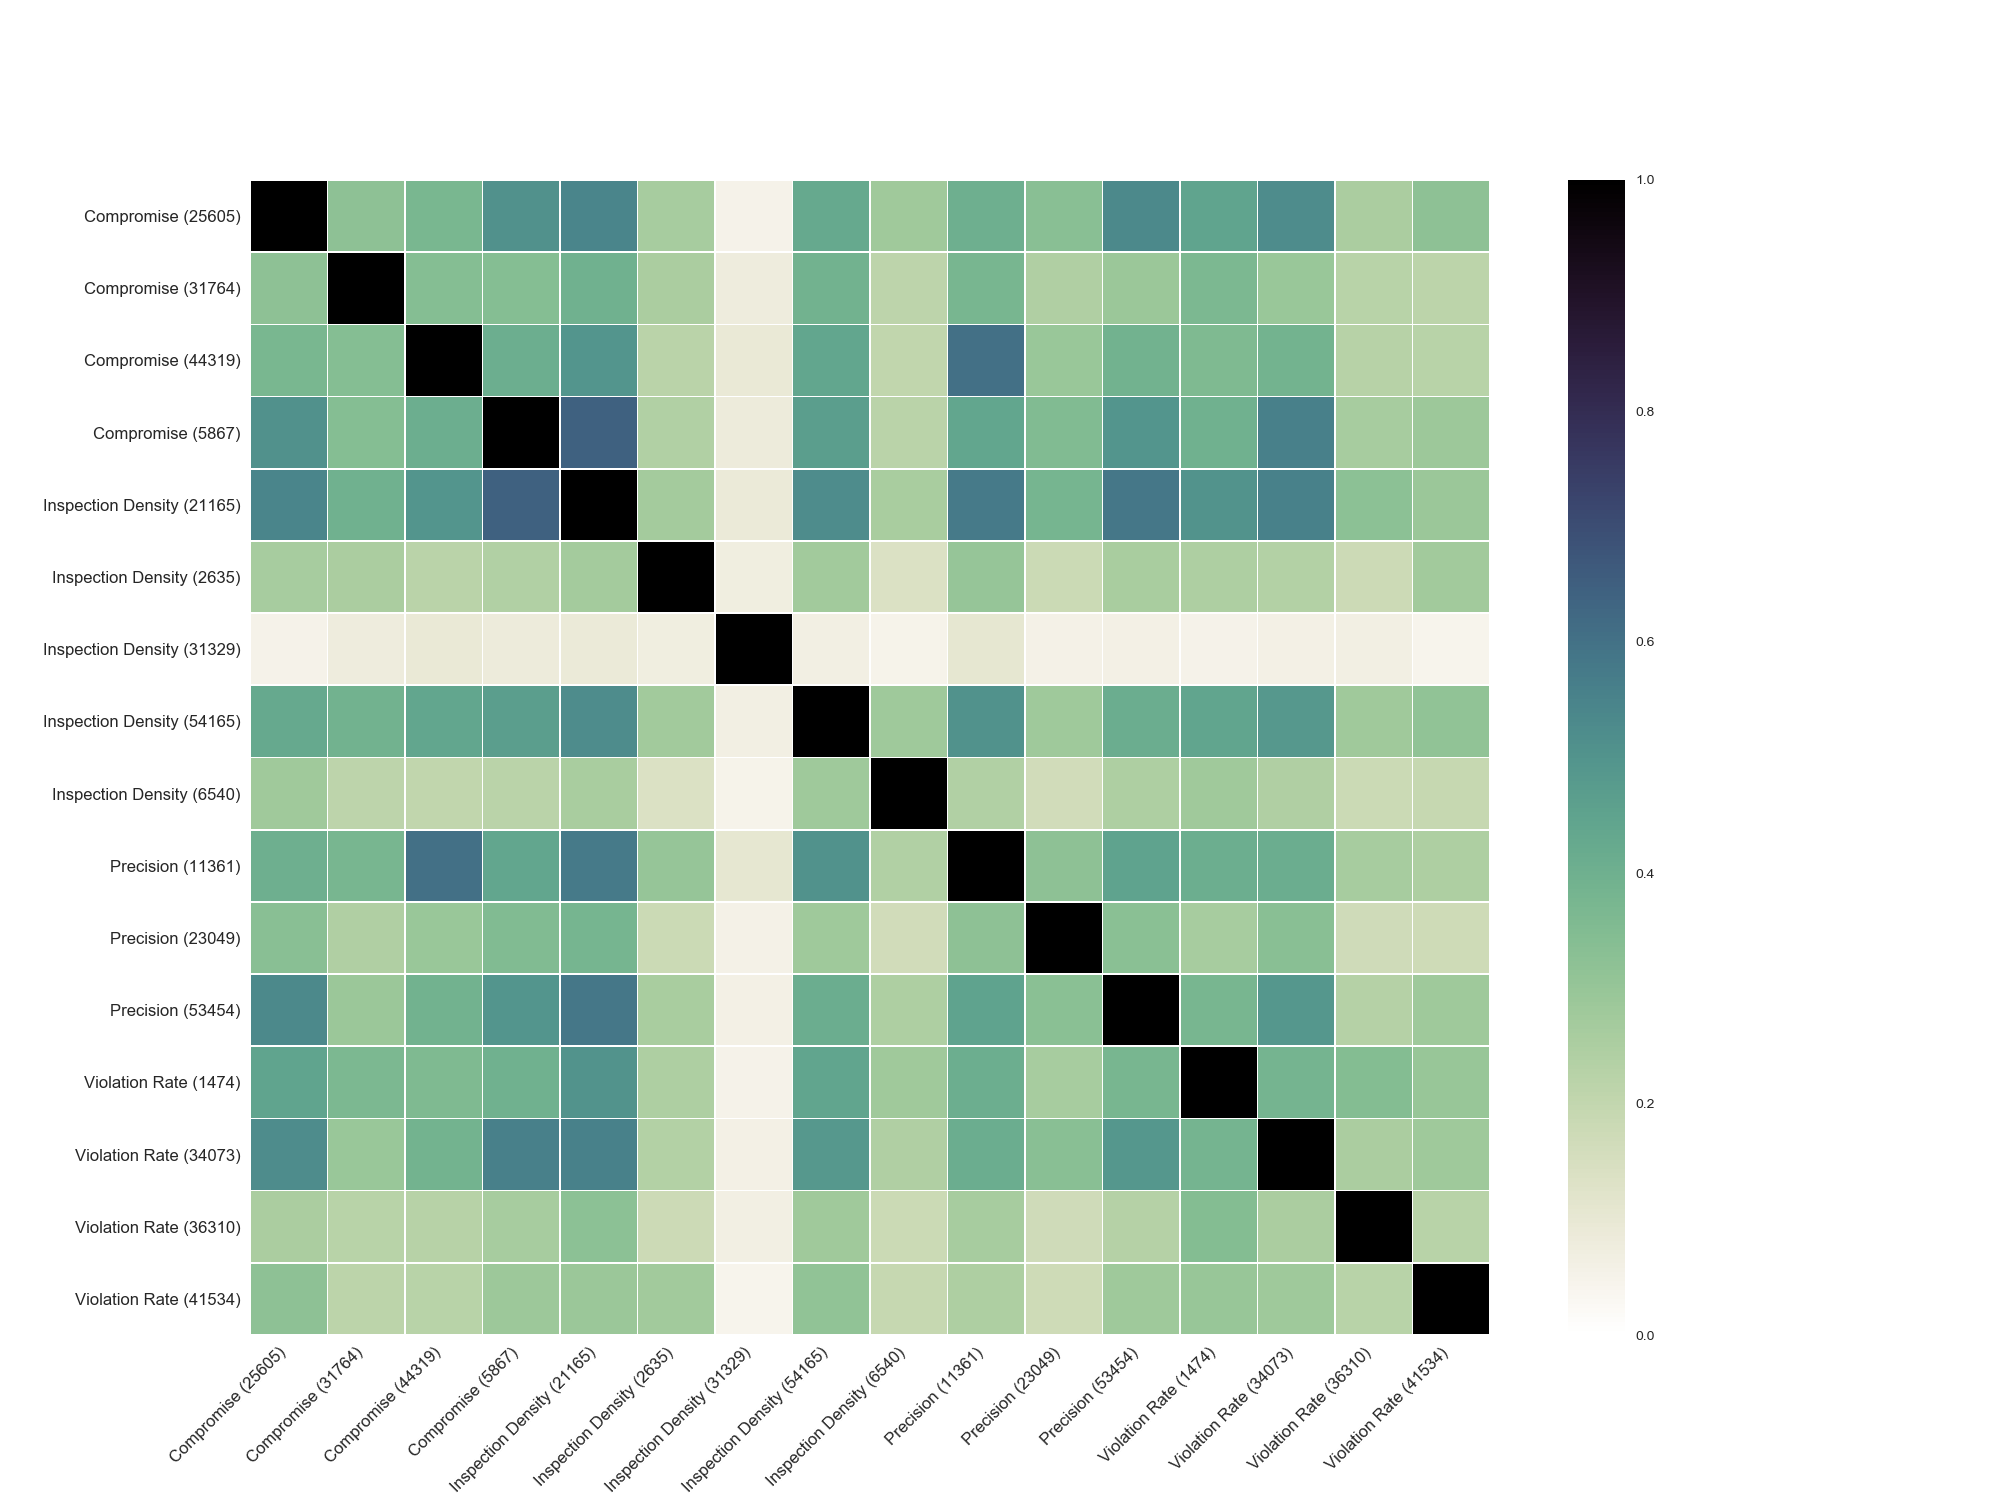
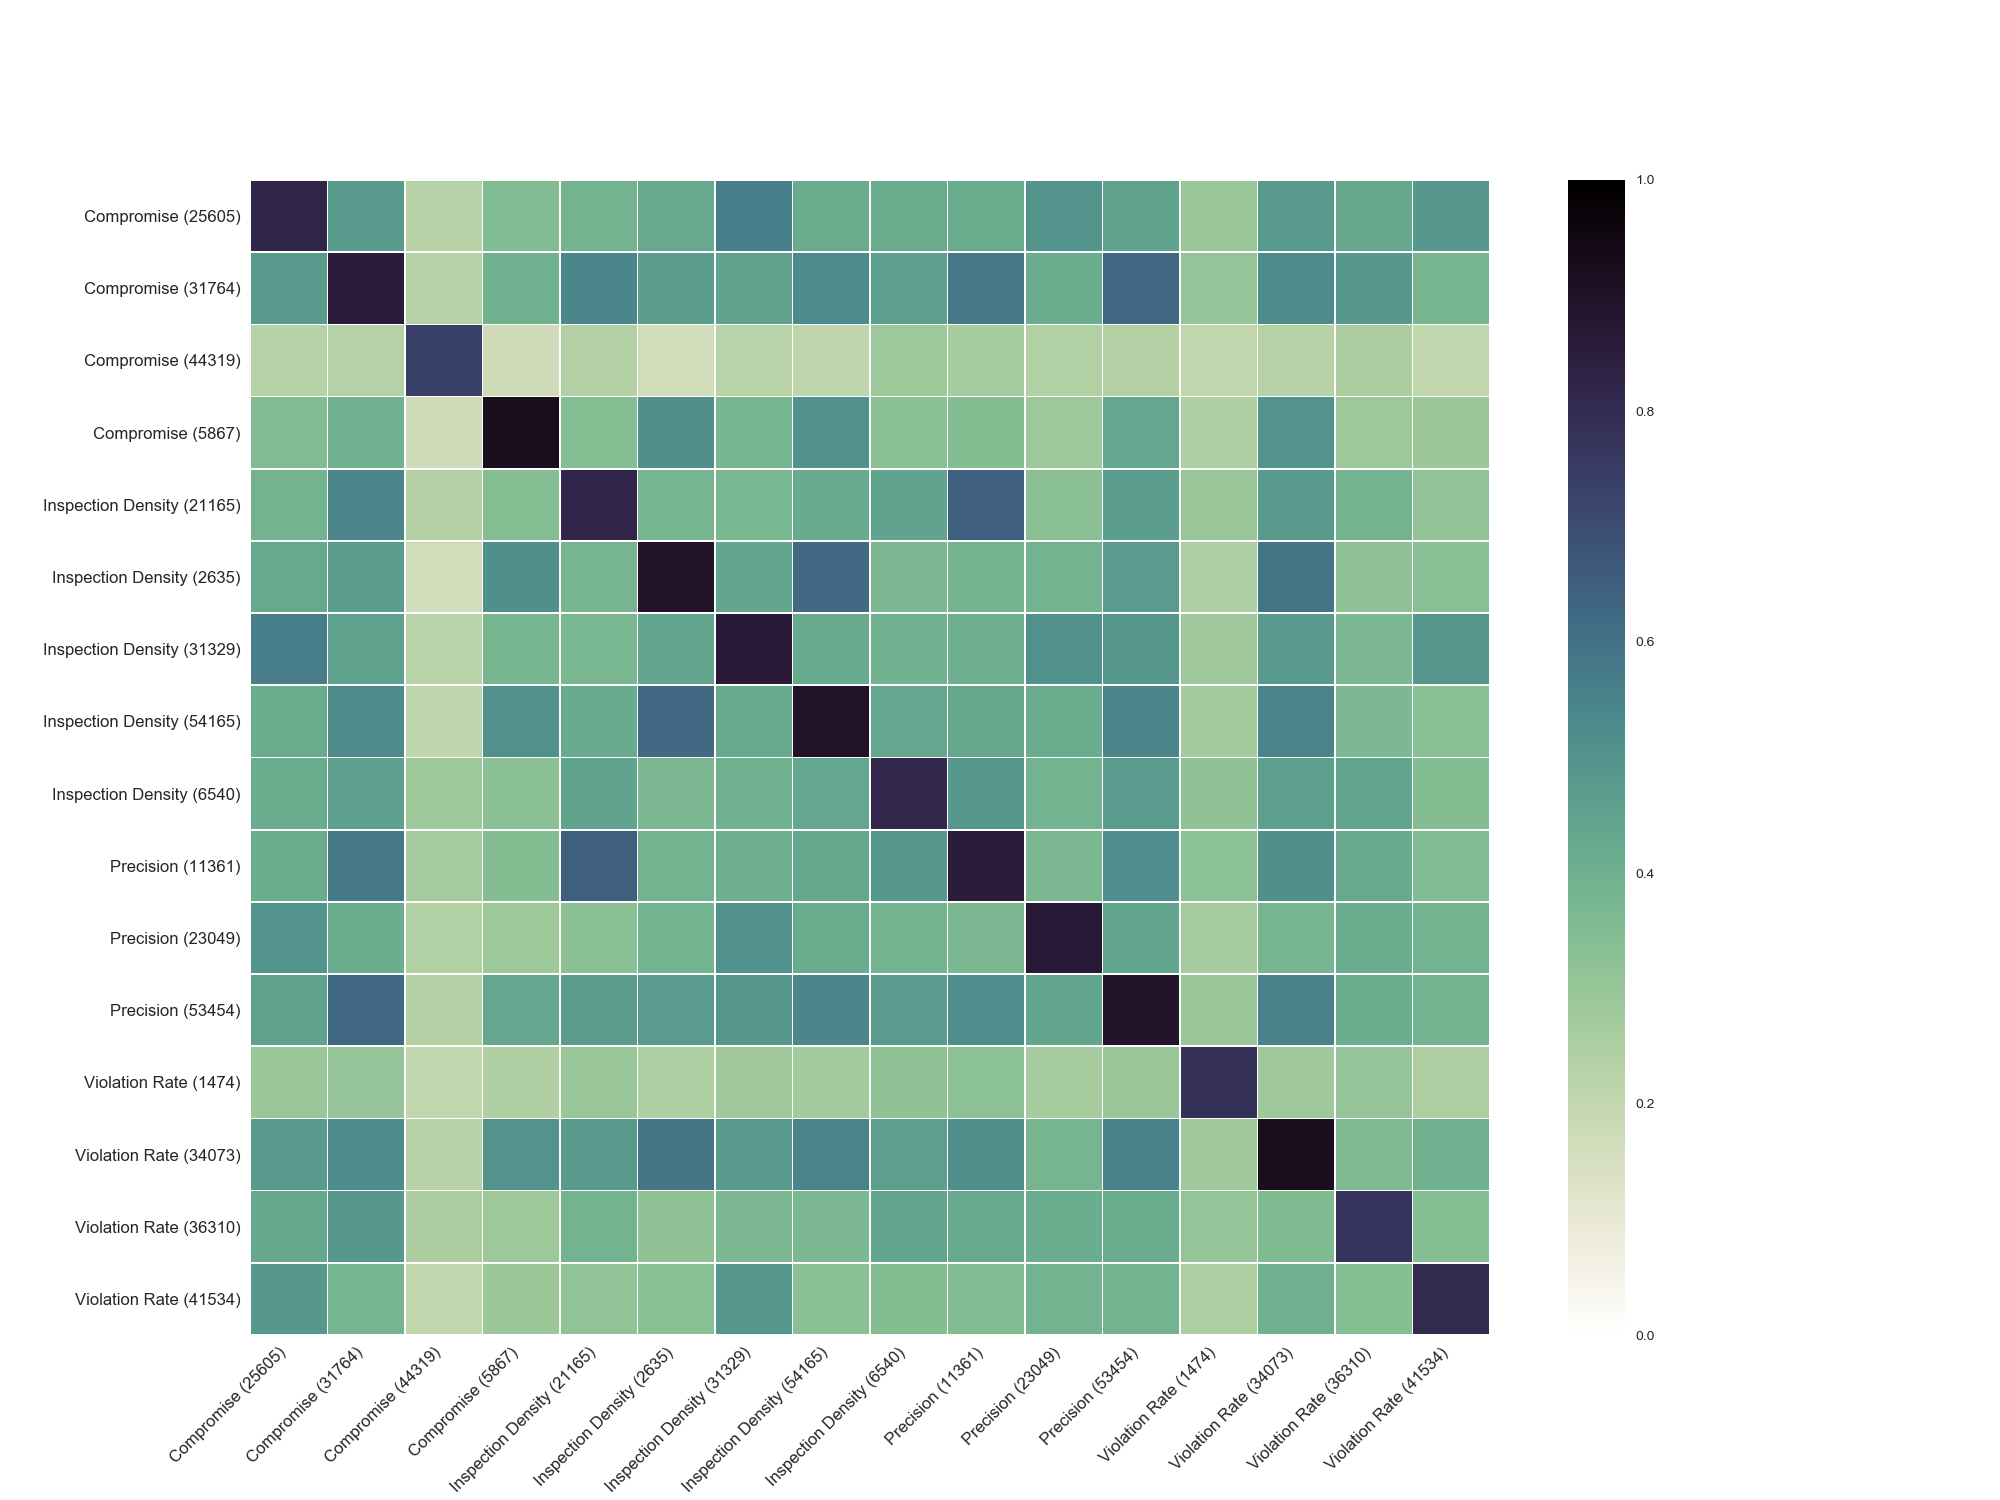
cleaning up Cincinnati post-modeling

diff --git a/post-modeling/model_exploration/retrain_models.py b/post-modeling/model_exploration/retrain_models.py
@@ -44,17 +44,19 @@ all_models = pd.read_sql_table('all_models',
                                 schema='model_results', 
                                 index_col='model_id')
 
-parcel_info = pd.read_sql_table('neighborhood_score_400m_12months',
+neighborhood = pd.read_sql_table('neighborhood_score_400m_12months',
                                  con=uri, 
                                  schema=validation_schema,
                                  index_col='parcel_id')
 
-parcel_info['inspection_density'] = parcel_info['unique_inspections']/\
-                                    parcel_info['houses']
-parcel_info['violation_rate'] = parcel_info['unique_violations']/\
-                                parcel_info['unique_inspections']
-parcel_info['violations_per_house'] = parcel_info['unique_violations']/\
-                                      parcel_info['houses']
+parcel_info = pd.DataFrame()
+
+parcel_info['inspection_density'] = neighborhood['unique_inspections']/\
+                                    neighborhood['houses']
+parcel_info['violation_rate'] = neighborhood['unique_violations']/\
+                                neighborhood['unique_inspections']
+parcel_info['violations_per_house'] = neighborhood['unique_violations']/\
+                                      neighborhood['houses']
 
 all_top_k = {}
 all_feature_importances = {}
@@ -108,8 +110,8 @@ for model_group in model_groups:
     below_quartile_ID['subset'] = 'Below Insp. Density First Quartile'
     all_top_k[model_group + ' Below First Quartile ID'] = below_quartile_ID
     
-all_top5 = pd.concat(all_top_k.values())
-all_top5.to_csv(path_to_all_top_k)
+all_top = pd.concat(all_top_k.values())
+all_top.to_csv(path_to_all_top_k)
 
 all_features_csv = pd.concat(all_feature_importances.values())
 all_features_csv.set_index(['feature','model_group']).\

diff --git a/post-modeling/model_exploration/make_list_overlap_heatmap.py b/post-modeling/model_exploration/make_list_overlap_heatmap.py
@@ -2,26 +2,45 @@ import pandas as pd
 import numpy as np
 import sklearn
 import os
-
 import seaborn as sns
 import matplotlib
 import matplotlib.pyplot as plt
 matplotlib.use('Agg')
 import sklearn_evaluation
 from sklearn_evaluation.plots import compute_similarity
+import yaml
+from sklearn_evaluation.Logger import Logger
+from lib_cinci.config import load 
 
-all_top5 = pd.read_csv('all_top5.csv', index_col=0)
-top_models = pd.read_csv('top_model_reason_lookup.csv')
+folder = os.environ['ROOT_FOLDER']
+name = 'config.yaml'
+path = "%s/%s" % (folder, name)
+f = open(path, 'r')
+text = f.read()
+main_yaml = yaml.load(text)
+logger = Logger(host=main_yaml['logger']['uri'],
+                db=main_yaml['logger']['db'],
+                collection=main_yaml['logger']['collection'])
 
-model_groups = top_models.model_group.map(str)
+connparams = load('config.yaml')['db']
+uri = '{dialect}://{user}:{password}@{host}:{port}/{database}'\
+      .format(**connparams)
+libpq_uri = 'dbname={database} user={user} host={host} password={password} port={port}'\
+      .format(**connparams)
+
+all_top_k = pd.read_sql_table('all_top_k', con=uri, schema='model_results', index_col='model_group')
+top_models = pd.read_sql_table('model_reasons', con=uri, schema='model_results')
+
+model_groups = top_models.model_group
 reasons = top_models.reason 
 
 top_k = {}
 for model_group in model_groups:
-    top_k[model_group] = all_top5.loc[model_group]
+    top_k[model_group] = all_top_k.loc[model_group]
 
+model_groups = model_groups.map(str)
 top_k_labels = [l[0] + ' (' + l[1] + ')' for l in zip(reasons,model_groups)]
-top_k_parcels = [p.parcel_id.values for p in top_k.values()] 
+top_k_parcels = [p.parcel_id.unique() for p in top_k.values()] 
 d = dict(zip(top_k_labels, top_k_parcels))
 prediction_matrix = pd.DataFrame.from_dict(d)
 

diff --git a/post-modeling/model_exploration/get_all_model_info.py b/post-modeling/model_exploration/get_all_model_info.py
@@ -1,6 +1,7 @@
 import pandas as pd
 import numpy as np
 import os
+import sys
 import fnmatch
 import re
 from sqlalchemy import create_engine
@@ -10,14 +11,13 @@ import dateutil
 from dateutil.relativedelta import relativedelta
 from lib_cinci.evaluation import load_one_inspection_per_parcel 
 from lib_cinci.config import load, get_config_parameters 
-#from lib_cinci import db
 from sklearn_evaluation.metrics import precision_at
 from sklearn_evaluation.Logger import Logger
 import ast
 import itertools
 
 #directory location of experiment configs
-experiment_directory = os.path.join(os.getcwd(), 'medium_models')
+experiment_directory = sys.argv[0]
 
 #space and time windows for neighborhood history
 space_delta = '400m'
